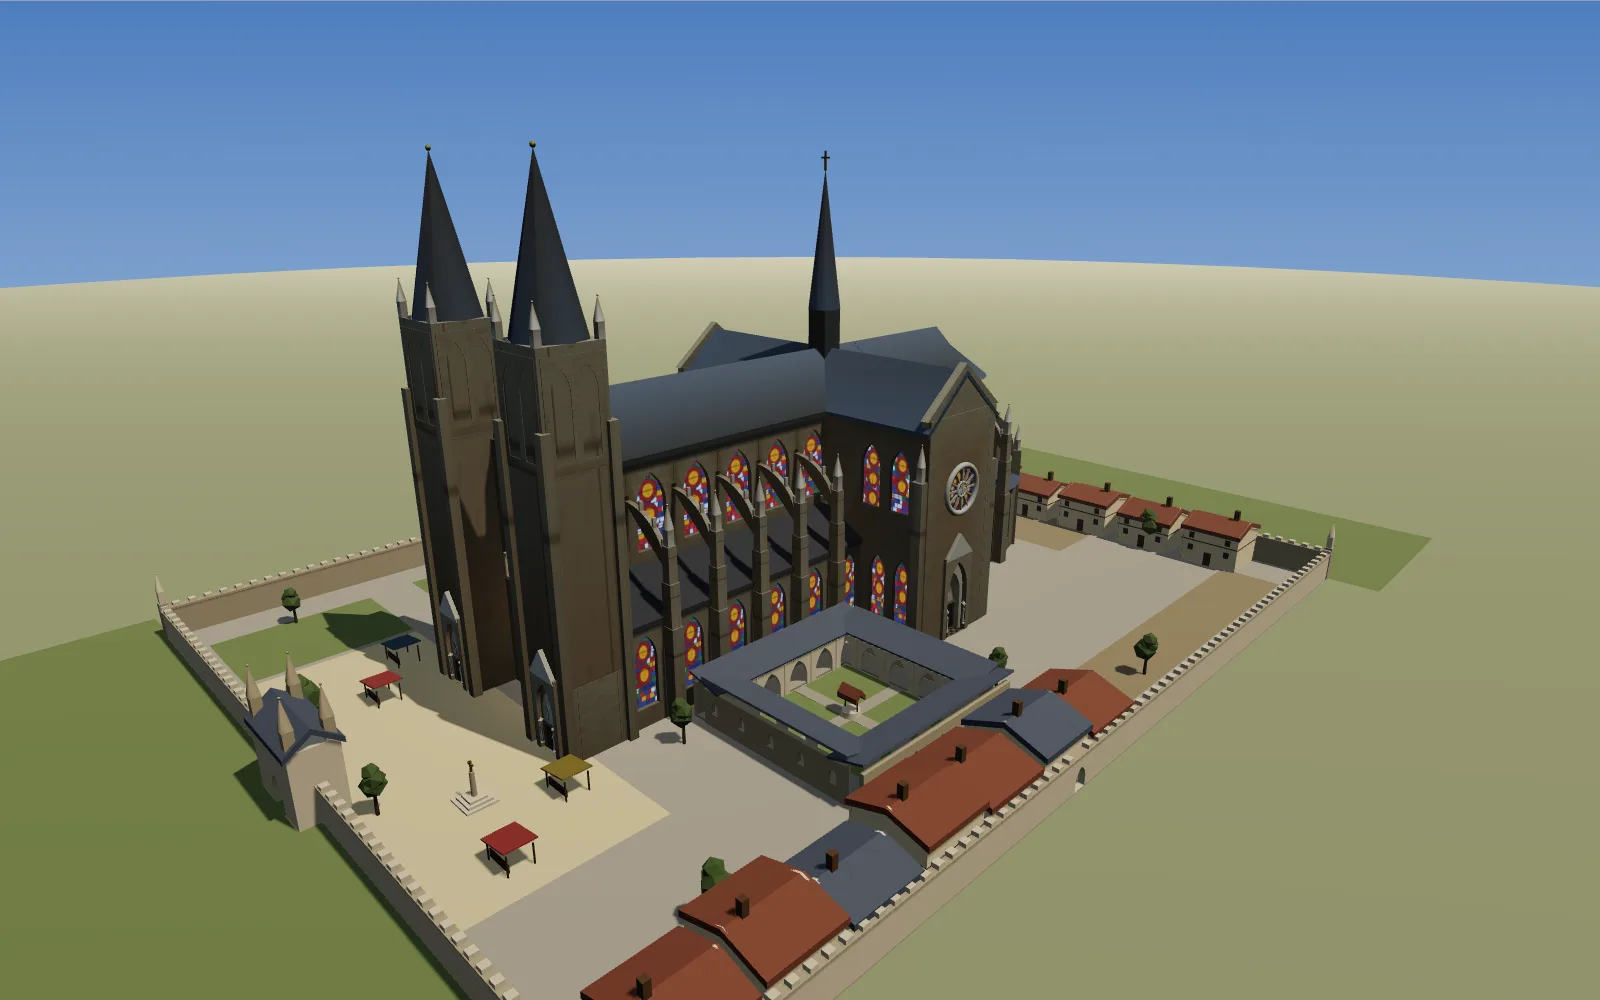
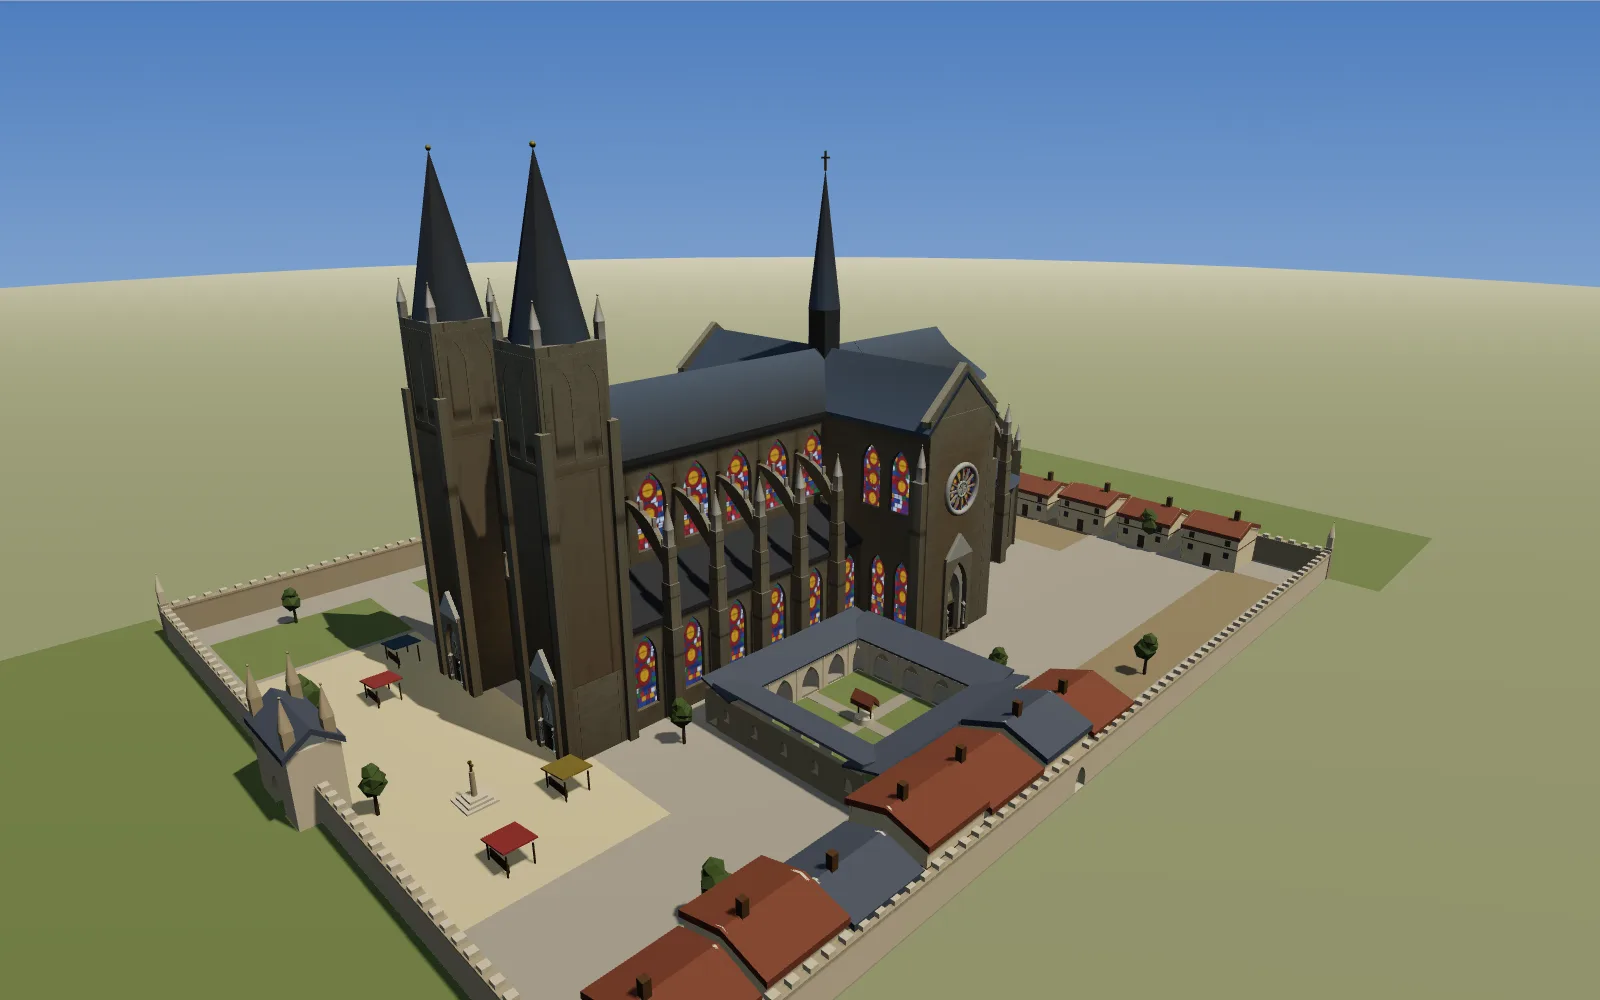
回廊外移留出过道 + 文档交接
- 回廊 CLO.x0 16.4→18.5：与南侧扶壁墩之间留出 ~2.6 m 过道
  （再往外会撞到南墙住宅，前脸 x≈45.5）
- README 补墙头收口、院内地面分级，回廊距离更新
- 新增 docs/HANDOFF.md 交接说明
- 重拍 docs/overview

Changed region(s): [[0.4062, 0.589, 0.6562, 0.775]]

diff --git a/src/town.js b/src/town.js
@@ -19,9 +19,9 @@ const SX = 56, NX = -52, WZ = 78, EZ = -58;
 const WALL_H = 4.2, WALL_T = 0.85;
 
 // 回廊方位（南侧、中厅与耳堂之间），尺寸由外层方框与内院定。
-// x0 取 16.4：南侧飞扶壁的扶壁墩最远伸到 x≈15.9，回廊退到它之外，
-// 免得墩子从回廊屋面里穿出来。
-const CLO = { x0: 16.4, z0: 13.0, garth: 18.0, depth: 4.2 };
+// x0 取 18.5：扶壁墩最远伸到 x≈15.9，回廊与它之间留 ~2.6 m 的过道（类 slype），
+// 让 22 m 高的扶壁墩完整露出来；再往外（19.5）就会撞到南墙那排住宅（前脸 ~45.5）。
+const CLO = { x0: 18.5, z0: 13.0, garth: 18.0, depth: 4.2 };
 
 function townMaterials() {
   const M = (color, roughness = 0.95, extra = {}) => {
@@ -427,7 +427,7 @@ export function buildTown(labels = []) {
   root.add(buildMarket(mats, rnd));
   root.add(buildTrees(mats, rnd));
 
-  labels.push({ text: '回廊（修士的日常动线）', pos: [28, 7.5, 26], scope: 'out' });
+  labels.push({ text: '回廊（修士的日常动线）', pos: [31.7, 7.5, 26.2], scope: 'out' });
   labels.push({ text: '教堂领地围墙', pos: [0, 6.5, WZ], scope: 'out' });
   labels.push({ text: '北侧墓地', pos: [-32, 3, 0], scope: 'out' });
   labels.push({ text: '西前庭集市', pos: [13, 6, 66], scope: 'out' });

diff --git a/README.md b/README.md
@@ -62,7 +62,7 @@ URL 参数：`?view=3&section=1&labels=1&build=0.42&time=0.95&panel=1&tour=1&pre
 | `src/figure.js` | 门龛上的石像 | 一条剖面曲线沿竖轴放样成壳，周向压出竖直衣褶；每尊一个种子，没有两尊一样 |
 | `src/facade.js` | 西立面：双塔、三门廊、玫瑰窗、国王廊 | 平面（中厅+双侧廊）直接投影为立面上的三座门；三座门都通到室内——塔身底层是可穿行的开间，侧门穿塔底进侧廊 |
 | `src/cathedral.js` | 总装：拉丁十字平面、三段式立面、屋面 | 逐开间（bay）装配——中世纪工地也是这样一跨一跨盖的 |
-| `src/town.js` | 教堂领地：围墙与门楼、回廊、教士住宅、墓地、西前庭集市 | 大教堂从来嵌在一片有围墙的领地里；领地不进建造动画（镇子先于教堂）、不进室内烘焙（室外靠天光），但进第一人称碰撞 |
+| `src/town.js` | 教堂领地：围墙与门楼（压顶石+垤口）、回廊、教士住宅、墓地、西前庭集市、院内地面分级 | 大教堂从来嵌在一片有围墙的领地里；领地不进建造动画（镇子先于教堂）、不进室内烘焙（室外靠天光），但进第一人称碰撞 |
 | `src/materials.js` | 全部材质与程序化贴图 | 石缝、棋盘铺地、木门都用 Canvas 现画，无外部图片；贴图统一开各向异性过滤 |
 | `src/params.js` | 全部尺寸 | 基础参数 + `recomputeDerived()`；设计面板改的就是这里 |
 | `src/presets.js` | 名堂预设 | 用参数近似圣母院（平顶塔）、沙特尔（不对称塔）、亚眠（最高拱顶）、科隆（巨塔）——同一套结构语言，各城各唱各的调 |
@@ -261,13 +261,18 @@ node tools/check-rain.mjs --wind=0,-0.8 --doors=open     # 落进室内 14 滴 =
 
 - **围墙与门楼**：长方形围墙（南 56 / 北 −52 / 西 78 / 东 −58 m）。西正门是一整座带
   尖拱门洞的楼体，覆双坡石板顶、四角小尖塔，与教堂的小尖塔同一种语言；东面开殡门，
-  南北各留一道便门。
+  南北各留一道便门。围墙上缘收口：**压顶石 + 垤口**（垤口跳过门洞/便门/门楼），
+  四个墙角各立一座小塔楼。
 - **回廊**（南侧、中厅与耳堂之间）：四面敞廊围出内院，朝内院是一排尖拱、外侧实墙开
-  小窗、单坡石板顶；内院铺草地、十字路径，中央一口水井。回廊外缘取 x = 16.4 m，
-  **正好让开南侧飞扶壁的扶壁墩**（最远伸到 x ≈ 15.9）——否则墩子会从回廊屋面里穿出来。
+  小窗、单坡石板顶；内院铺草地、十字路径，中央一口水井。回廊外缘取 x = 18.5 m，
+  与南侧飞扶壁的扶壁墩（最远伸到 x ≈ 15.9）之间留出 **约 2.6 m 的过道**——让 22 m 高
+  的扶壁墩完整露出来；再往外（x ≈ 19.5）就会撞到南墙那排住宅（前脸 x ≈ 45.5）。
 - **教士住宅**：沿南墙、东墙各排一列，抹灰墙 + 木构架 + 双坡瓦顶 + 烟囱。
 - **墓地**：北侧一块草坪，成排的立碑与十字，几棵紫杉。
-- **西前庭集市**：市场十字、四处摊棚，以及从正门通向中门的石板路。
+- **西前庭集市**：市场十字、四处摊棚；正门到西立面之间是整片石板前庭。
+- **院内地面分级**：原来一整块灰广场被拆成 前庭石板 / 北侧草地 / 后殿东侧与南侧的
+  压实土 几档（另有北侧一条步道），各叠 2–6 cm 的薄平面避免共面——领地内部不再是
+  一张灰板。
 
 接入方式是"挂进 `buildCathedral()` 的 `root`"：于是领地自动进入第一人称碰撞、参数重建
 与资源释放。但领地材质标了 `userData.noBake`（室外靠天光/日照，不进室内顶点色烘焙）、
@@ -276,8 +281,9 @@ node tools/check-rain.mjs --wind=0,-0.8 --doors=open     # 落进室内 14 滴 =
 反弹面参与烘焙。
 
 又一个共面的坑（与教堂那些是同一类）：领地草坪停在耳堂地坪之外、门楼门洞比围墙门洞
-窄一点、回廊端墙比侧翼短几厘米——三处都是为了避免"两个朝向相同的面落在同一平面上"，
-否则 `check-zfight.mjs` 会照实报出来。
+窄一点、回廊端墙比侧翼短几厘米、墙头压顶石贴墙顶（两者法线相反）、院内地面分级各档
+错开 2–6 cm——都是为了避免"两个朝向相同的面落在同一平面上"，否则 `check-zfight.mjs`
+会照实报出来。
 
 ### 室内光照烘焙
 

diff --git a/docs/HANDOFF.md b/docs/HANDOFF.md
@@ -1,0 +1,63 @@
+# 交接说明（Handoff）
+
+> 给切换模型 / 新接手者的一份快速状态快照。长期文档看 `README.md`。
+
+## 项目一句话
+
+**石头与光**：纯 Three.js 程序化生成的一座盛期哥特风格大教堂 + 教堂领地（close），
+无任何外部模型/图片资源。在线 <https://church.bigcow.net>，本地 `python3 -m http.server 8123` 后开 <http://localhost:8123/>。
+
+## 坐标系与关键尺寸
+
+- y 向上；中厅轴线沿 **z**，西立面在 **+z**，后殿在 **−z**；**+x 南**、−x 北。
+- 参数集中在 `src/params.js` 的 `P`，派生量在 `recomputeDerived()`：
+  `aisleOut=13.2`、`outerX=14.2`（侧廊外墙外皮）、`naveZ0=6`、`naveZ1=48`、`choirZ1=-27`。
+- 领地四至（`src/town.js` 常量）：南 `SX=56`、北 `NX=-52`、西 `WZ=78`、东 `EZ=-58`；墙高 `WALL_H=4.2`。
+- 回廊（`CLO`）：`x0=18.5`、`z0=13`、内院 `garth=18`、敞廊进深 `depth=4.2`。
+  回廊与南侧扶壁墩（最远 x≈15.9）之间留 ~2.6 m 过道；回廊东缘距南墙住宅前脸（x≈45.5）仅 ~0.44 m。
+
+## 代码地图
+
+| 文件 | 职责 |
+|---|---|
+| `src/cathedral.js` | 总装：拉丁十字平面、三段式立面、屋面、耳堂、后殿、管风琴、光柱 |
+| `src/town.js` | 领地：围墙+门楼（压顶石/垛口/四角小塔楼）、回廊、教士住宅、墓地、集市、**院内地面分级** |
+| `src/main.js` | 入口：渲染/日照/环视/行走/剖面/标注/建造动画/面板；另有 **地下泥土层 + `addFoundations` 地基**（挂在 scene 不挂 root） |
+| `src/gothic.js` | 尖拱、束柱、小尖塔、山墙、坡屋面、`wallWithOpenings` 开洞墙 |
+| `src/bake.js` / `bakeworker.js` / `grid.js` | 室内顶点色烘焙（Worker 并行 + IndexedDB 缓存 + 射线加速网格） |
+| `src/doors.js` / `glass.js` / `vault.js` / `buttress.js` / `facade.js` / `figure.js` / `materials.js` / `presets.js` / `tour.js` / `worksite.js` / `audio.js` | 各自构件/声音/导览/工地 |
+| `tools/` | 四个检查器 + 取景页（shot.html）+ 烘焙对照 + 导览录制 |
+| `test/smoke.mjs` | 无浏览器冒烟 |
+
+## 领地接入的约定（重要）
+
+- `buildTown()` 的 group 被 `buildCathedral()` 挂进 `root` → 自动进**第一人称碰撞/重建/释放**。
+- 领地材质标 `userData.noBake`（`bake.js` 跳过），网格标 `userData.buildSkip`（建造动画跳过）、`userData.town`（穿刺检查器跳过）；树额外标 `noFoundation`（不长地基）。
+- 烘焙版本 `BAKE_VER=2`（`src/main.js`）。
+
+## 检查器基线（当前全绿）
+
+```bash
+node test/smoke.mjs                 # ~2430 网格，通过
+node tools/check-zfight.mjs 0.004 0.2   # 严格共面 0 处
+node tools/check-rain.mjs           # 0 处漏雨
+node tools/check-poke.mjs           # 0 处穿刺（按 userData.town 跳过领地）
+node tools/check-flicker.mjs        # 外观 0.02–0.18%、剖面 ≤0.09%，无成片抖动
+```
+
+## 已知待办 / 未定
+
+1. **回廊东侧偏紧**：回廊东缘距南墙住宅仅 0.44 m。若想两侧都宽松，可缩内院 `CLO.garth 18→16`，或把住宅进深 `8.4–10.2` 收到 `6–8`（`src/town.js` 的 `buildHouses`）。
+2. **前庭石板无纹理**：目前是纯色 `#c4b690`；可加 flagstone 程序化贴图。
+3. **媒体过期**：`docs/` 里其余截图与 `tour.mp4` 还是领地之前拍的，只有 `docs/overview.png` 是最新。
+4. 墙头垛口疏密（当前齿 0.9 m / 间距 2.0 m）、院内土院/草地比例，可视口味调。
+
+## 关于看效果
+
+- 当前会话的助手**读不了图片**（`read` 图片返回 "model does not support images"）。
+  验证视觉靠**像素采样**：用 puppeteer 加载 `tools/shot.html`（`preserveDrawingBuffer:true`），
+  `gl.readPixels` 读中心/网格点的 RGB 数字；或直接 `xdg-open docs/overview.png`。
+
+## 部署
+
+push 到 `main` → Cloudflare Pages 自动上线（Git 集成，无构建）。`tools/deploy-cf.sh` 是应急直传，一般不用。
